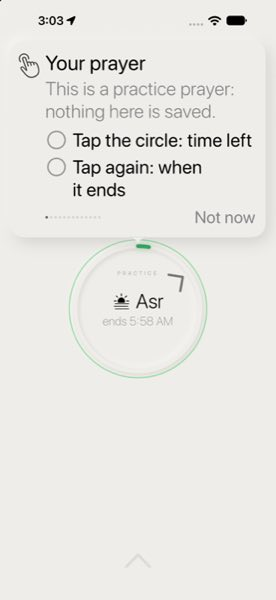
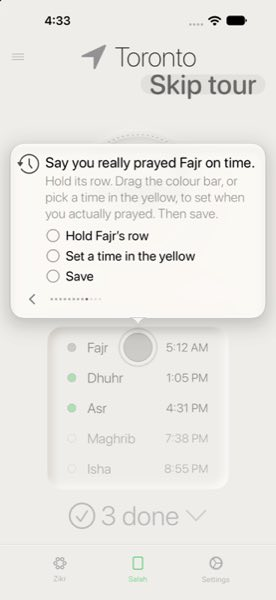
Counting tips can't touch real data (Ben's audit N): during the delete tip only the tour's own session deletes (swipe / menu / Select guarded), shown as "Practice", ringed; > 12 counts = real, kept ("That one counts"); the tips start only from a freestyle session, never a task's. Tour cards at the l

diff --git a/shukr/CursorSwift/Tour.swift b/shukr/CursorSwift/Tour.swift
@@ -443,6 +443,11 @@ private struct TourBubblePlacement: Layout {
     let edge: CGFloat?
     let below: Bool
     let fallbackY: CGFloat
+    /// What the step asks you to touch (this view's space): the bubble never lands on it — kept on screen, a tall
+    /// bubble (the largest text) moves to its other side instead (Sami: card 9 covered Fajr's row at AX XXXL).
+    var avoid: CGRect? = nil
+    /// The highest the bubble goes: under Skip tour during the tour (Sami: card 9's payoff covered it).
+    var topLimit: CGFloat = 64
 
     func sizeThatFits(proposal: ProposedViewSize, subviews: Subviews, cache: inout ()) -> CGSize {
         proposal.replacingUnspecifiedDimensions()
@@ -454,8 +459,16 @@ private struct TourBubblePlacement: Layout {
         let h = size.height
         let wanted = edge.map { below ? $0 + h / 2 : $0 - h / 2 } ?? fallbackY
         // Never off the screen, nor under the status bar or the home indicator (a tall bubble, large text, a small phone).
-        let top = 64 + h / 2, bottom = bounds.height - 24 - h / 2
-        let y = bottom > top ? min(max(wanted, top), bottom) : bounds.height / 2
+        let top = topLimit + h / 2, bottom = bounds.height - 24 - h / 2
+        func clamp(_ y: CGFloat) -> CGFloat { bottom > top ? min(max(y, top), bottom) : bounds.height / 2 }
+        var y = clamp(wanted)
+        if let avoid, avoid.intersects(CGRect(x: 0, y: y - h / 2, width: bounds.width, height: h)) {
+            // Its other side, if that's clear: under the target, else over it.
+            let options = [avoid.maxY + 14 + h / 2, avoid.minY - 14 - h / 2].map(clamp)
+            if let clear = options.first(where: { !avoid.intersects(CGRect(x: 0, y: $0 - h / 2, width: bounds.width, height: h)) }) {
+                y = clear
+            }
+        }
         bubble.place(at: CGPoint(x: bounds.midX, y: bounds.minY + y), anchor: .center,
                      proposal: ProposedViewSize(width: size.width, height: h))
     }
@@ -516,11 +529,12 @@ struct TourCallout: View {
             // Measured and placed in one layout pass (`TourBubblePlacement`): never a stored height fed back into its
             // position — that looped on Settings (Sami, 402 pt: 116 % CPU, the step never reached Done).
             TourBubblePlacement(edge: bubbleEdge(below: below), below: aboveY != nil ? false : below,
-                                fallbackY: size.height * 0.62) {
+                                fallbackY: size.height * 0.62, avoid: hole,
+                                topLimit: place == nil ? 64 : typeSize.isAccessibilitySize ? 158 : 112) {
                 bubble(below: below, tail: tail)
                     // Larger text gets the screen's width (audit C13); kept on screen by the placement.
                     .frame(width: width)
-                    .dynamicTypeSize(...DynamicTypeSize.accessibility2)
+                    .dynamicTypeSize(...DynamicTypeSize.xxxLarge)   // taller couldn't clear its target (Sami, AX XXXL)
                     .scaleEffect(shown || reduceMotion ? 1 : 0.6, anchor: below ? .top : .bottom)
                     .opacity(shown ? 1 : 0)
             }
@@ -563,6 +577,7 @@ struct TourCallout: View {
                         Text(chapter.uppercased())
                             .font(.system(.caption2, design: .rounded, weight: .medium))
                             .tracking(1.2)
+                            .fixedSize(horizontal: false, vertical: true)   // wraps at the largest sizes (Sami)
                             .foregroundStyle(.secondary)
                             .padding(.bottom, 1)
                     }
@@ -1293,6 +1308,7 @@ struct TourLayer: View {
     /// The qibla step has waited a while (a compass that won't settle): a Next appears.
     @State private var qiblaWaited = false
     @Environment(\.accessibilityReduceMotion) private var reduceMotion
+    @Environment(\.dynamicTypeSize) private var typeSize
     /// "You skipped the tour" for a few seconds after a skip (owner: tell them where to find it again).
     @State private var skippedNote = false
     private var runtime: TourRuntime { TourRuntime.shared }
@@ -1331,7 +1347,8 @@ struct TourLayer: View {
                     withAnimation(.easeOut(duration: CircleMotion.quick)) { skippedNote = true }
                 }
                 .frame(maxWidth: .infinity, maxHeight: .infinity, alignment: .topTrailing)
-                .padding(.top, 12)
+                // Under the top bar at the largest sizes, where the city's name reaches the corner (Sami, AX XXXL).
+                .padding(.top, typeSize.isAccessibilitySize ? 56 : 12)
                 .padding(.trailing, 16)
                 .transition(.asymmetric(insertion: .identity, removal: .opacity))
             }
@@ -1920,7 +1937,7 @@ struct TourInviteCard: View {
             }
         }
         .padding(18)
-        .dynamicTypeSize(...DynamicTypeSize.accessibility2)
+        .dynamicTypeSize(...DynamicTypeSize.xxxLarge)   // taller couldn't clear its target (Sami, AX XXXL)
         .tourBubble(RoundedRectangle(cornerRadius: 22, style: .continuous),
                     look: TourBubbleLook(rawValue: lookRaw) ?? .glass, scheme: scheme, backdrop: theme.backdrop)
         .accessibilityElement(children: .contain)

diff --git a/shukr/CursorSwift/CountTips.swift b/shukr/CursorSwift/CountTips.swift
@@ -37,6 +37,7 @@ import SwiftUI
     static func rearm() {
         UserDefaults.standard.removeObject(forKey: stageKey)
         UserDefaults.standard.removeObject(forKey: sessionKey)
+        UserDefaults.standard.removeObject(forKey: keptKey)
         shared.tip = nil
     }
 
@@ -74,8 +75,13 @@ import SwiftUI
         case .history: Words(symbol: "clock.arrow.circlepath", headline: "Your history",
                              line: "Every session you finish is kept here.", task: "Open History, top left", needed: 1,
                              insight: nil)
+        // Counted for real: kept, nothing to delete.
+        case .delete where UserDefaults.standard.bool(forKey: keptKey):
+            Words(symbol: "checkmark.circle", headline: "That one counts",
+                  line: "You counted for real \u{2014} keep it. Every session you finish is kept here.", task: nil,
+                  needed: 0, insight: nil)
         case .delete: Words(symbol: "trash", headline: "Tidy up",
-                            line: "That was practice \u{2014} swipe it left, then Delete.", task: "Swipe the top one left, then Delete", needed: 1,
+                            line: "That was practice \u{2014} swipe it left, then Delete.", task: "Swipe \u{201C}Practice\u{201D} left, then Delete", needed: 1,
                             insight: ("Gone", "Swipe left on any session to delete it."))
         case .end: Words(symbol: "hand.tap", headline: "Your turn",
                          line: "Now the real one: tap the circle when you\u{2019}re ready.", task: nil, needed: 0,
@@ -86,7 +92,9 @@ import SwiftUI
 
     // MARK: The session
 
-    func sessionOpened(postSalah: Bool) {
+    /// `task`: a task's session — never the practice one (its counts would go into the task's day and streak; Ben's
+    /// audit N): the tips wait for a freestyle session.
+    func sessionOpened(postSalah: Bool, task: Bool = false) {
         #if DEBUG
         if CommandLine.arguments.contains("-demoCountTips") { Self.rearm() }
         // `-countTipsFrom <n>`: start the session tour at that tip (its raw value: 0 tap … 7 finishButton, 8 results).
@@ -94,7 +102,7 @@ import SwiftUI
            let n = Int(CommandLine.arguments[i + 1]), let from = Tip(rawValue: n) { stage = from }
         #endif
         resetTip()
-        guard !postSalah else { if (tip?.rawValue ?? 99) <= Tip.finishButton.rawValue { tip = nil }; return }
+        guard !postSalah && !task else { if (tip?.rawValue ?? 99) <= Tip.finishButton.rawValue { tip = nil }; return }
         var s = stage
         // Left on the pause screen's tips: they start again at the pause tip.
         if (Tip.stats.rawValue...Tip.finishButton.rawValue).contains(s.rawValue) { s = .pause; stage = s }
@@ -145,9 +153,20 @@ import SwiftUI
     /// The pause button pressed (not the pause going to the background makes).
     func pausePressed() { if tip == .pause { bump() } }
     /// The session saved by Finish: the tour's own session.
-    func sessionSaved(_ id: UUID) {
-        if tip == .finishButton { sessionID = id.uuidString; bump() }
+    func sessionSaved(_ id: UUID, count: Int) {
+        guard tip == .finishButton else { return }
+        // Counted for real (more than the tips asked for): it's theirs — never offered for deleting (Ben's audit N).
+        if count > Self.practiceMost { sessionID = nil; UserDefaults.standard.set(true, forKey: Self.keptKey) }
+        else { sessionID = id.uuidString; UserDefaults.standard.removeObject(forKey: Self.keptKey) }
+        bump()
     }
+    /// More counts than the tips ask for (2 taps, 3 drags, 3 in one drag = 8, with room): a real session.
+    static let practiceMost = 12
+    static let keptKey = "countTips.v2.kept"
+    /// The tour's own session (only it may be deleted while the delete tip is up).
+    func isPractice(_ id: UUID) -> Bool { sessionID == id.uuidString }
+    /// The delete tip is up: no other session can be deleted (Ben's audit N).
+    var guardsDeletes: Bool { tip == .delete }
     func historyOpened() { if tip == .history { go(.delete) } }
     func sessionsDeleted(_ ids: [UUID]) {
         if tip == .delete, let mine = sessionID, ids.map(\.uuidString).contains(mine) { bump() }

diff --git a/shukr/HistoryPageView.swift b/shukr/HistoryPageView.swift
@@ -385,7 +385,7 @@ struct SessionRow: View {
                     if let pace {
                         Button { startFeelingPace(pace) } label: { Label("Feel the pace", systemImage: "metronome") }
                     }
-                    if let onDelete {
+                    if let onDelete, !tourLocked {
                         Divider()
                         Button(role: .destructive) { onDelete() } label: { Label("Delete…", systemImage: "trash") }
                     }
@@ -394,7 +394,8 @@ struct SessionRow: View {
                 // stopped paging sideways, so rows can swipe again). Not `role: .destructive`:
                 // the List would expect the row gone at once and the confirm never shows.
                 .swipeActions(edge: .trailing, allowsFullSwipe: false) {
-                    if let onDelete {
+                    // The session tour's delete tip: only its own practice session swipes (Ben's audit N).
+                    if let onDelete, !tourLocked {
                         Button { onDelete() } label: { Label("Delete", systemImage: "trash") }
                             .tint(.red)
                     }
@@ -403,6 +404,11 @@ struct SessionRow: View {
             core
         }
     }
+
+    /// The session tour's delete tip is up and this isn't its practice session: not deletable now.
+    private var tourLocked: Bool { CountTips.shared.guardsDeletes && !CountTips.shared.isPractice(session.id) }
+    /// This is the tour's practice session, while its delete tip is up: named and ringed.
+    private var tourPractice: Bool { CountTips.shared.guardsDeletes && CountTips.shared.isPractice(session.id) }
 
     private var holdable: some View {
         summary
@@ -419,6 +425,15 @@ struct SessionRow: View {
         }
         // Each count: a soft green edge glow around the row, like the qibla map's aligned glow.
         .background { PaceEdgeGlow(beat: paceBeat).padding(-8) }
+        // The practice session the tip asks to delete, ringed so it's the one swiped (not a real one).
+        .overlay {
+            if tourPractice {
+                RoundedRectangle(cornerRadius: 12, style: .continuous)
+                    .stroke(TourInk.green, lineWidth: 2)
+                    .padding(-8)
+                    .allowsHitTesting(false)
+            }
+        }
         // The whole row tints while the pace plays.
         // Always an explicit background: the system's grey selected-row fill looked off in Edit
         // mode (owner) — the selection circle is enough.
@@ -428,7 +443,9 @@ struct SessionRow: View {
     private var summary: some View {
         HStack(alignment: .center) {
             VStack(alignment: .leading, spacing: 3) {
-                if showsMantraName {
+                if tourPractice {
+                    Text("Practice").font(.body.weight(.medium))
+                } else if showsMantraName {
                     Text(session.mantra?.name ?? session.title)
                         .font(.body.weight(.medium))
                 } else {

diff --git a/shukr/tasbeehView.swift b/shukr/tasbeehView.swift
@@ -892,7 +892,8 @@ struct tasbeehView: View {
         .onAppear {
             _ = SessionHandoff.shared.takeEntry()   // read (entryFrom, landingBase); the next session opens as it should
             CircleCover.set("tasbeeh", true)   // a session is up: prompts wait (e.g. the widget's "Unmark?")
-            CountTips.shared.sessionOpened(postSalah: sharedState.isDoingPostNamazZikr)
+            CountTips.shared.sessionOpened(postSalah: sharedState.isDoingPostNamazZikr,
+                                           task: sharedState.selectedMode != 0 && sharedState.selectedTask != nil)
             appLookDark = colorScheme == .dark
             tasbeehColorMode = appLookDark
             // Post-salah: the Tasbih Fatimah zikr is set up BEFORE anything resolves the pick (audit A8).
@@ -1191,7 +1192,7 @@ struct tasbeehView: View {
         if sessionCount == 0 { SessionDraft.clear() }   // audit A7: nothing to keep
         if sessionCount > 0 {
             savedSession = saveSession()
-            if let saved = savedSession { CountTips.shared.sessionSaved(saved.id) }   // the session tour's practice session
+            if let saved = savedSession { CountTips.shared.sessionSaved(saved.id, count: saved.totalCount) }   // the session tour's practice session
             
             print("saved session: \(savedSession == nil ? "nil" : "\(savedSession!.title) with \(savedSession!.totalCount)")")
             // Shared-state writes re-render the whole home screen under this cover, so they wait

diff --git a/shukr/CursorSwift/ZikrTabPages.swift b/shukr/CursorSwift/ZikrTabPages.swift
@@ -99,7 +99,7 @@ struct ZikrHistoryPage: View {
                 ToolbarItem(placement: .topBarTrailing) {
                     Button(editing ? "Done" : "Select") { withAnimation { editing.toggle() } }
                         .fontWeight(editing ? .semibold : .regular)
-                        .disabled(anySession.isEmpty)
+                        .disabled(anySession.isEmpty || CountTips.shared.guardsDeletes)   // the tour's delete tip: its row only
                 }
                 if #available(iOS 26.0, *) {
                     if !editing { DefaultToolbarItem(kind: .search, placement: .bottomBar) }
